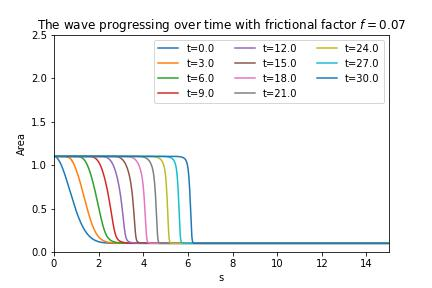
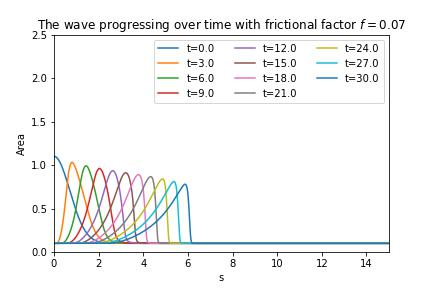
pushy

Changed region(s): [[0.1204, 0.5312, 0.4514, 0.875]]

diff --git a/Square River Gif FINAL.py b/Square River Gif FINAL.py
@@ -48,7 +48,7 @@ def devfunc(t,y):
     k=np.zeros(len(y))
     #print(t)
     for i in range(len(y)):
-        if i>0:
+        if i>=0:
             k[i]=((g/f)**(1/2))*(-Q(y[i],2,alpha)+Q(y[i-1],2,alpha))
         else:
             k[i]=0

diff --git a/Wedge Gif FINAL.py b/Wedge Gif FINAL.py
@@ -96,7 +96,7 @@ def devfunc(t,y):
     k=np.zeros(len(y))
     #print(t)
     for i in range(len(y)):
-        if i>0:
+        if i>=0:
             k[i]=((g/f)**(1/2))*(-Q(y[i],5,alpha)+Q(y[i-1],5,alpha))
         else:
             k[i]=0
